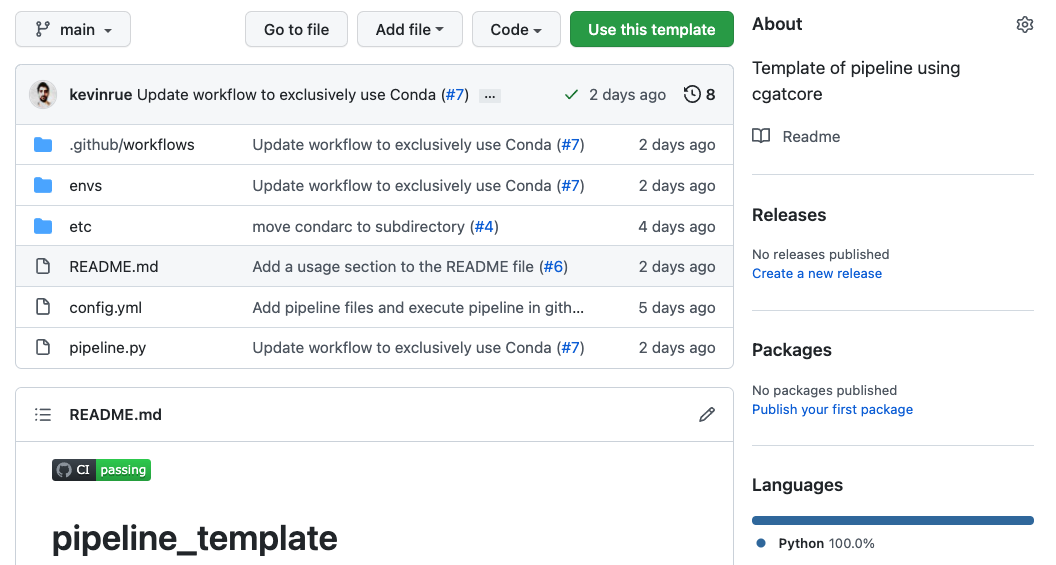
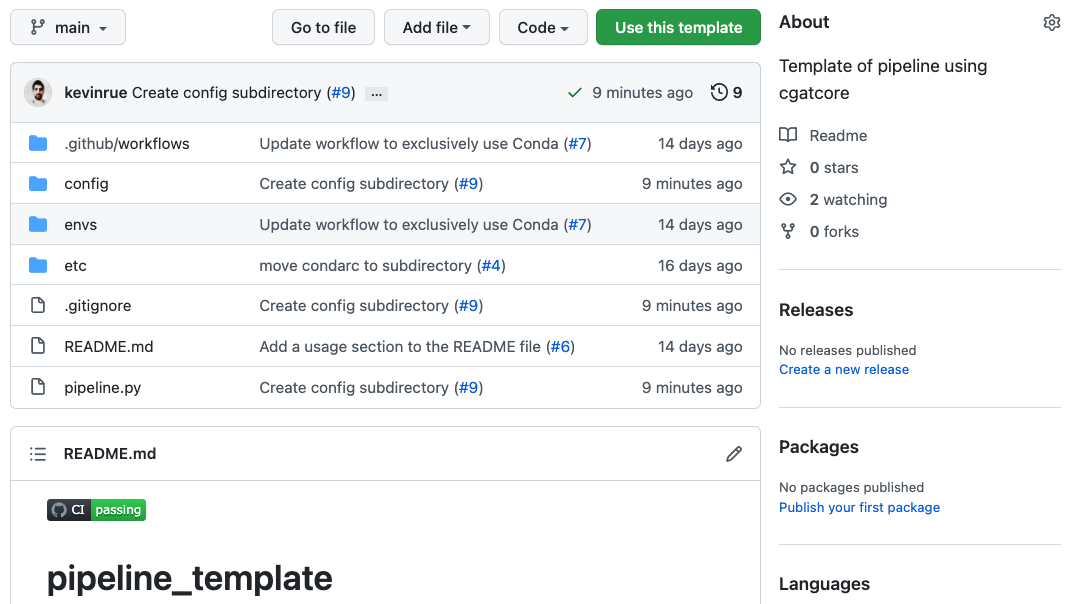
Update screenshots (#18)
* update screenshot for template pipeline

* update screenshot of production pipeline from template

* update screenshot of production pipeline fork

* update legend about repository structure

diff --git a/docs/source/guides/production_fork.rst b/docs/source/guides/production_fork.rst
@@ -36,6 +36,15 @@ to the upstream repository, and it contains the following files and sub-director
   occasionally update it with fixes, or to add new custom steps
   (e.g., download additional test input files to test new steps in the pipeline).
 
+``config/``
+  Sub-directory that contains configuration files for controlling
+  the execution of the pipeline.
+  Configurable settings may range from options passed on to programs
+  called in individual tasks, to tabulated metadata about input files.
+  You will update files in that folder with values that match your updates to the pipeline.
+  Updates range from editing existing values, to adding or removing fields
+  that control new or deprecated parameters of the pipeline controlled by users.
+
 ``data/``
   Sub-directory where users will download the input FASTQ files for this guide.
   In most cases, you will leave this untouched, as the pipeline is automatically
@@ -60,16 +69,13 @@ to the upstream repository, and it contains the following files and sub-director
   to verify that all the expected files are present at the end of the pipeline run
   during the GitHub Action.
 
+``.gitignore``
+  Git configuration file used to ignore files to stage and commit,
+  you will leave it untouched.
+
 ``README.md``
   Basic description of the repository.
   You will edit it as you see fit.
-
-``config.yml``
-  YAML file that is used to configure parameters of the pipeline.
-  The file is included with example values.
-  You will update this file with values that match your updates to the pipeline.
-  Updates range from editing existing values, to adding or removing fields
-  that control new or deprecated parameters of the pipeline controlled by users.
 
 ``pipeline.py``
   Python script that describes the pipeline steps and overall workflow.

diff --git a/docs/source/guides/production_usage.rst b/docs/source/guides/production_usage.rst
@@ -47,6 +47,14 @@ and it contains the following files and sub-directories:
   Sub-directory that contains instructions for GitHub Action workflows,
   you will leave it untouched.
 
+``config/``
+  Sub-directory that contains configuration files for controlling
+  the execution of the pipeline.
+  Configurable settings may range from options passed on to programs
+  called in individual tasks, to tabulated metadata about input files.
+  You will edit and add files in that folder with values suited to your own situation,
+  before running the pipeline.
+
 ``data/``
   Sub-directory where you will download the input FASTQ files for this guide.
   In your own projects, we recommend create symbolic links in this folder,
@@ -59,6 +67,10 @@ and it contains the following files and sub-directories:
   You will only used those files as input to create the necessary
   Conda environment on the system where you will run the pipeline.
 
+``.gitignore``
+  Git configuration file used to ignore files to stage and commit,
+  you will leave it untouched.
+
 ``etc/``
   Sub-directory that contains additional files needed specifically 
   for continuous integration, you will leave it untouched.
@@ -66,12 +78,6 @@ and it contains the following files and sub-directories:
 ``README.md``
   Basic description of the repository.
   You will edit it as you see fit.
-
-``config.yml``
-  YAML file that is used to configure parameters of the pipeline.
-  The file is included with example values.
-  You will edit this file with values suited to your own situation,
-  before running the pipeline.
 
 ``pipeline.py``
   Python script that describes the pipeline steps and overall workflow,

diff --git a/docs/source/guides/template.rst b/docs/source/guides/template.rst
@@ -41,6 +41,15 @@ and it contains the following files and sub-directories:
   that is derived from the template (e.g., download test files,
   name of the Conda environment).
 
+``config/``
+  Sub-directory that contains configuration files for controlling
+  the execution of the pipeline.
+  Configurable settings may range from options passed on to programs
+  called in individual tasks, to tabulated metadata about input files.
+  You will edit and add files in that folder as you develop the pipeline,
+  to provide a template and default values that can be edited by users
+  for each run of the pipeline.
+
 ``envs/``
   Sub-directory that contains YAML files describing Conda environments
   for running or testing the pipeline.
@@ -52,15 +61,13 @@ and it contains the following files and sub-directories:
   Sub-directory that contains additional files needed specifically 
   for continuous integration, you will leave it untouched.
 
+``.gitignore``
+  Git configuration file used to ignore files to stage and commit,
+  you will leave it untouched.
+
 ``README.md``
   Basic description of the repository.
   You will edit it as you see fit.
-
-``config.yml``
-  YAML file that is used to configure parameters of the pipeline.
-  You will edit this file as you develop the pipeline,
-  to provide a template and default values that can be edited by users
-  for each run of the pipeline.
 
 ``pipeline.py``
   Python script that describes the pipeline steps and overall workflow.
